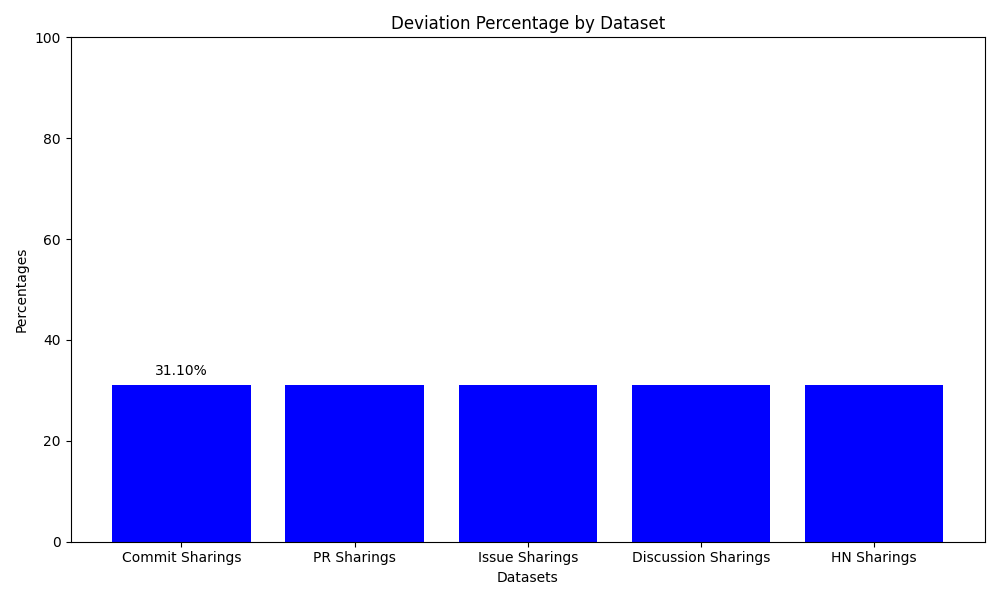
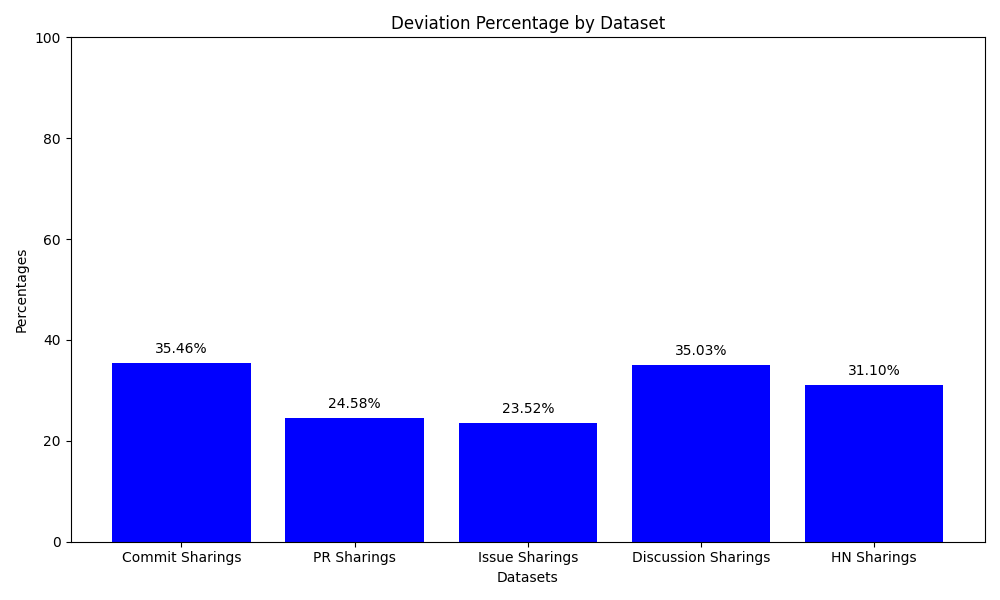
Fix graph formatting

Changed region(s): [[0.279, 0.57, 0.775, 0.72], [0.093, 0.57, 0.248, 0.66], [0.837, 0.6, 0.899, 0.63]]

diff --git a/src/rq1/main.py b/src/rq1/main.py
@@ -77,7 +77,7 @@ def calculate_cosine_similarity(Answers):
         
     return mean(conv_similarity)
 
-def calculate_deviation(dataset,name,threshold):
+def calculate_deviation(dataset,threshold):
 
     result = []
     Conversations = dataset["ChatgptConversations"]        
@@ -141,14 +141,13 @@ def analyze_data():
     values = {}
     for dataset in DATASET_CATEGORIES:
         file = glob(f"{CURRENT_DIRECTORY}{OUTPUT_FOLDER_PATH}{dataset.lower().replace(' ','_')}.json")
-        dataset_name = dataset.lower().replace(' ','_')
         filepaths.append(file[0])
 
     data = [read_json_data(filepath) for filepath in filepaths]
 
     for i in range(0,len(data)):    
-        res = calculate_deviation(data[i],dataset_name,similarity_threshold)        
-        values[dataset_name] = res
+        res = calculate_deviation(data[i],similarity_threshold)        
+        values[DATASET_CATEGORIES[i]] = res
         plot_pie_chart(res, DATASET_CATEGORIES[i])
 
     plot_bar_chart(values)
